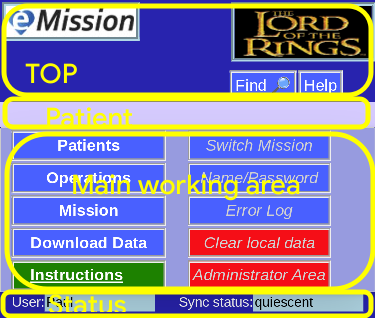
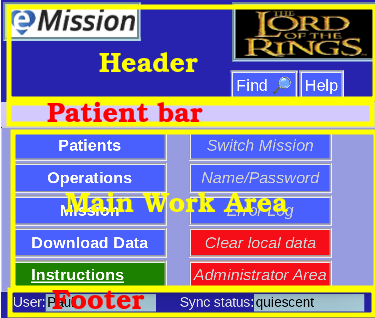
More Pages added

diff --git a/src/NoteList.md b/src/NoteList.md
@@ -1,0 +1,25 @@
+# Note List
+
+![](images/NoteList.png)
+
+Use this page to view existing notes.
+
+* The notes will be on the patient shown in the Patient Bar
+* Depending on which list was chosen, this can be all notes, or only in a certain catagory (like "Pre-Op")
+* There are buttons to add a new note or photo in the top button menu.
+
+## Multiple years
+
+![](images/NoteList1.png)
+
+* If more than one year is represented in the notes, (i.e. subsequent missions or yearly followup) the note list will be presented collapsed
+* The year and the number of notes in that year is shown
+* Click on the "+" button to open a given year
+
+## Single year, or year selected
+
+![](images/NoteList2.png)
+
+* For a single year, the note list is aleady expanded
+* Each note can be read directly
+* To edit the note, press the "Edit" button

diff --git a/src/Header.md b/src/Header.md
@@ -1,0 +1,19 @@
+# Header
+
+This is the top area of each page. In it's simplest form:
+
+![](images/Top.png)
+
+Which includes:
+
+* **eMission Button** to reload the aplication and return to the Main Menu
+* **Mission Logo** links to the organization's web site
+* **Find** jumps to full text search through the mission database
+* **Help** links to these instructions
+
+On most pages, the Mission Logo will be smaller, and more options offered:
+
+![](images/Top2.png)
+
+* **Return** usually returns to the previous page
+* **Save**, **Edit**, **Add** depending on the context of the work area.

diff --git a/src/PatientBar.md b/src/PatientBar.md
@@ -1,0 +1,9 @@
+# Patient Bar
+
+Just under the Header is the Patient Bar
+
+![](images/PatientBar.png)
+
+This shows the current selected patient which is especially useful when viewing notes and operations.
+
+When editting Mission information, the Mission Name will be shown, instead.

diff --git a/src/SUMMARY.md b/src/SUMMARY.md
@@ -16,6 +16,10 @@
 # Tasks
 # Page List
 - [Common Elements](Layout.md)
+  - [Header](Header.md)
+  - [Patient Bar](PatientBar.md)
+  - [Working Area](Working.md)
+  - [Footer](Footer.md)
 - [Main Menu](MainMenu.md)
 - [Search](SearchList.md)
 - [Notes]()

diff --git a/src/Layout.md b/src/Layout.md
@@ -1,0 +1,9 @@
+# Common Elements
+
+All eMission pages have a common layout:
+
+![](images/Layout1.png)
+
+There are 4 main areas:
+
+![](images/Layout2.png)

diff --git a/src/Working.md b/src/Working.md
@@ -1,0 +1,1 @@
+# Working Area

diff --git a/src/Footer.md b/src/Footer.md
@@ -1,0 +1,1 @@
+# Footer
